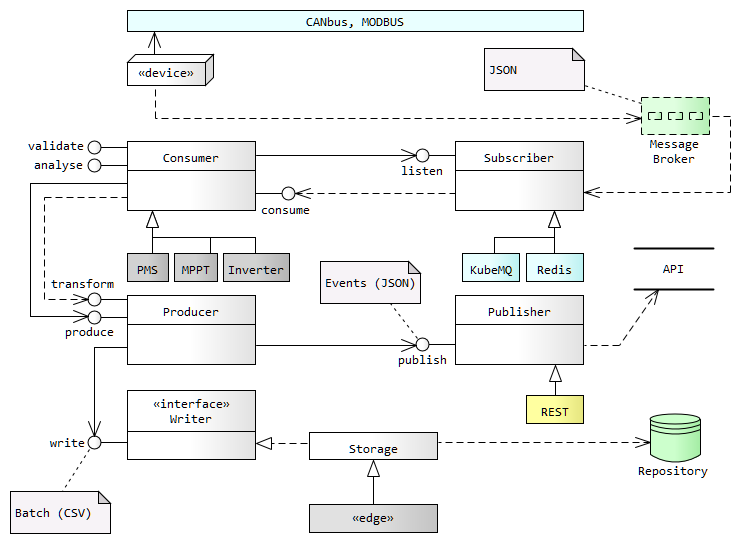
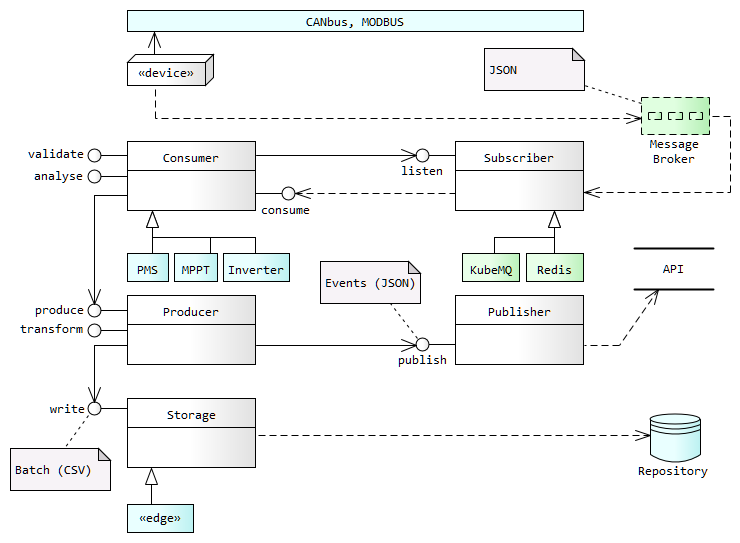
ok

diff --git a/api.sundaya.monitored.equipment/Getting Started/Start Here/Standards & Conventions.md b/api.sundaya.monitored.equipment/Getting Started/Start Here/Standards & Conventions.md
@@ -143,7 +143,7 @@ Note: `field name` refers to fields in API messages and JSON documents.
 
 An abbreviated _Content_ type mnemonic should **prefix** _Dataset_ names.
 
-- The list of _Content_ mnemonics is provide in the [Storage](/docs/api.sundaya.monitored.equipment/0/c/Implementation/Architecture/Storage) section.
+- The list of _Content_ mnemonics is provide in the [Storage/Content](/docs/api.sundaya.monitored.equipment/0/c/Implementation/Architecture/Storage) section.
 
 The Dataset naming convention is therefore: 
     \<content-mnemonic>_\<descriptive-qualifier>
@@ -154,29 +154,42 @@ The Dataset naming convention is therefore:
     - `tel` is the <content-mnemonic> for the **telemetry** _Content_ type.
     - the fully-qualified dataset name includes the repository name: `analytics.tel_pms` 
 
-## Service names
+## Storage Service names
 
-An abbreviated _Messaging_ class mnemonic should **prefix** all _Service_ names.
+An abbreviated _Storage_ class mnemonic should **prefix** all `Storage` _Service_ names.
 
-- The list of _Messaging_ mnemonics is provide in the [Messaging](/docs/api.sundaya.monitored.equipment/0/c/Implementation/Architecture/Messaging) section.
+- A `Storage` _Service_ is either a _Writer_ or _Reader_ of a _Repository_.  
 
-An abbreviated _Repository_ mnemonic and qualifier should **suffix** the name if it is a `Storage` _Service_.
+- The list of _Storage_ class mnemonics is provide in the [Storage](/docs/api.sundaya.monitored.equipment/0/c/Implementation/Architecture/Storage) section.
 
-- A `Storage` _Service_  is either a _Writer_ or _Reader_ of a _Repository_.  
+A _Repository_ qualifier should **suffix** all `Storage` _Service_ names.
 
-- The list of _Repository_ mnemonics is provide in the [Storage](/docs/api.sundaya.monitored.equipment/0/c/Implementation/Architecture/Storage) section.
+- The list of _Repository_ qualifiers is provides in the [Storage\Repository](/docs/api.sundaya.monitored.equipment/0/c/Implementation/Architecture/Storage) section.
 
 The `Storage` _Service_ naming convention is therefore: 
-    \<messaging-class-mnemonic>.\<dataset-name>.\<repository-mnemonic>_<repository-qualifier>
+    \<storage-class-mnemonic>.\<dataset-name>.\<repository-qualifier>
     
-    e.g. `wri.tel_pms.any_bq` 
+    e.g. `wri.tel_pms.any_bq`       XXXXXXXXXXXXXXXXX should be wri.any_bq which takes a tel_pms as an argument
 
-    - is the name of the _Writer_ for _PMS Telemetry_ to the analytics repository in _BigQuery_.
-    - `tel` is the <content-mnemonic> for the **telemetry** _Content_ type.
-    - the fully-qualified dataset name includes the repository name: `analytics.tel_pms` 
+    - is the name of the _Writer_ for _PMS Telemetry_ data to the _BigQuery Analytics_ repository.
+
+## Messaging Service names
+
+An abbreviated _Messaging_ class mnemonic should **prefix** all `Messaging` _Service_ names.
+
+- The list of _Messaging_ class mnemonics is provide in the [Messaging](/docs/api.sundaya.monitored.equipment/0/c/Implementation/Architecture/Messaging) section.
+
+A _Dataset_ qualifier should **suffix** all `Storage` _Service_ names.
 
 
-All other _Service_ names (_Producers_ and _Consumers_) should **suffix** the name with a topic or subscription name.
+A `Messaging` _Service_ is either:
+
+- a _Producer_ or _Consumer_ of a _Dataset_
+
+- a _Publisher_ or _Consumer_ of a _Topic/ Subscription_
+
+
+
 
 
     \<messaging-class-mnemonic>.\<dataset-name>[.\<topic_name>]

diff --git a/api.sundaya.monitored.equipment/Implementation/Architecture/Storage.md b/api.sundaya.monitored.equipment/Implementation/Architecture/Storage.md
@@ -26,15 +26,18 @@ Data is stored in five technologically differentiated repositories which (depict
 
 - Secondary datasets provide relatively static (master) data and are stored in the _nearline_ repository, for combining as external tables through joins.
 
-_Repository_ archetypes and their abbreviated mnemonics and qualifiers are used to name storage **Services**, according to [naming conventions](/docs/api.sundaya.monitored.equipment/0/c/Getting%20Started/Start%20Here/Standards%20&%20Conventions). These are listed below:
+_Repository_ archetypes and their abbreviated mnemonics and qualifiers are listed below:
 
-Repository      | Mnemonic                  | Qualifiers    | Qualifier Names
----             | ---                       | ---           | ---
-monitoring      | `mon`                     | `std`         | _Stackdriver_
-analytics       | `any`                     | `bq`          | _BigQuery_
-reporting       | `rpt`                     | `bt`<br>`ds`  | _Bigtable_<br>_Datastore_   
-nearline        | `nl`                      | `gcs`         | _Google Cloud Storage_
-graph           | `gr`                      | `jg`<br>`fs`  | _JanusGraph_<br>_Firestore_
+- _Qualifiers_ are used to name storage **Services** according to [naming conventions](/docs/api.sundaya.monitored.equipment/0/c/Getting%20Started/Start%20Here/Standards%20&%20Conventions).
+
+
+Repository      | Mnemonic                  | Qualifiers            | Qualified Repository Names
+---             | ---                       | ---                   | ---
+monitoring      | `mon`                     | `mon_std`             | _Stackdriver Monitoring_
+analytics       | `any`                     | `any_bq`              | _BigQuery Analytics_
+reporting       | `rpt`                     | `rpt_bt`<br>`rpt_ds`  | _Bigtable Reporting_<br>_Datastore Reporting_   
+nearline        | `nl`                      | `nl_gcs`              | _Google Cloud Storage Files_
+graph           | `gr`                      | `gr_jg`<br>`gr_fs`    | _JanusGraph Graph Data_<br>_Firestore Document Map _
 
 _Repository_ archetypes are described in more detail below:
 
